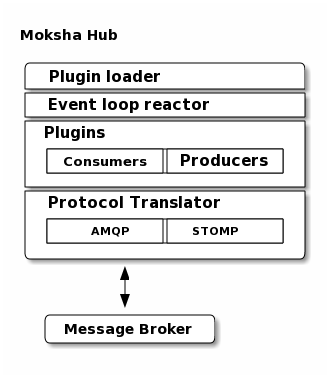
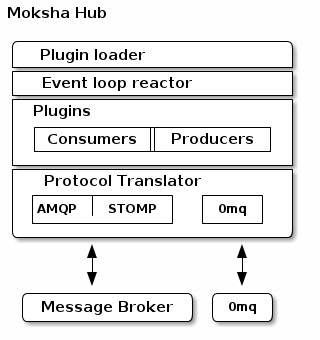
0mq and WebSocket documentation.

diff --git a/docs/main/Features.rst b/docs/main/Features.rst
@@ -18,7 +18,7 @@ Messaging Hub
 
 Moksha provides a message hub that allows for other applications, services, or users to communicate over a low-latency topic-based publish/subscribe message bus.  It's designed in such a way as to facilitate a variety of different message flows, allowing for a combination of different message queueing brokers and protocols.
 
-Out of the box, Moksha utilizes `MorbidQ <http://www.morbidq.com/>`_, a lightweight message queue for bundled deployment, for it's message queueing needs.  With a 1-line change to Moksha's configuration file, you can integrate it with an existing `AMQP <http://amqp.org/>`_ broker, such as `Qpid <http://incubator.apache.org/qpid/>`_ or `RabbitMQ <http://rabbitmq.com>`_.
+Out of the box, Moksha utilizes `MorbidQ <http://www.morbidq.com/>`_, a lightweight message queue for bundled deployment, for it's message queueing needs.  With a 1-line change to Moksha's configuration file, you can integrate it with an existing `AMQP <http://amqp.org/>`_ broker, such as `Qpid <http://incubator.apache.org/qpid/>`_ or `RabbitMQ <http://rabbitmq.com>`_.  With similarly small configuration changes, you can integrate it with a `0mq <http://www.zeormq.org>`_ messaging fabric.
 
 .. seealso::
 
@@ -32,6 +32,10 @@ server that allows for asynchronous browser <-> server communication (Comet).  M
 then makes it simple to create :doc:`LiveWidgets` that can publish and
 subscribe to arbitrary message topics in the :doc:`MokshaHub`.  This
 allows for the creation of very rich live web applications.
+
+Moksha also packs a built-in WebSocket server and Live Widget mixin as an
+alternative to the Orbited (Comet) pattern.  The WebSocket pattern is compatible
+with only the 0mq messaging backend.
 
 Plugin Infrastructure
 ---------------------
@@ -63,16 +67,6 @@ subscribe to message :doc:`Topics`.
 
    :doc:`Widgets`
 
-Resource Connectors
--------------------
-
-Moksha offers a Resource Layer that trivializes interacting with external
-services in an intelligent and efficient manner.
-
-.. seealso::
-
-   :doc:`Connectors`
-
 Highly Scalable Architecture
 ----------------------------
 
@@ -84,7 +78,7 @@ Expert System
 
 :doc:`MokshaHub` gives you Expert System-like functionality by providing
 APIs for interacting with a variety of knowledge bases (SQLAlchemy models,
-Resource Connectors, Caches, Message Queues, etc), and can easily monitor and
+Caches, Message Queues, etc), and can easily monitor and
 process incoming data.  One could then easily build state-machines, inference
 engines, or even forward/backward-chaning rule-driven expert systems.
 

diff --git a/docs/main/MessageBrokers.rst b/docs/main/MessageBrokers.rst
@@ -66,3 +66,27 @@ AMQP Broker in your``/etc/orbited.cfg``
    AMQP support in Moksha has been tested with `Qpid <http://qpid.apache.org>`_.
 
       `RabbitMQ <http://rabbitmq.com>`_ support is under development.  See the :doc:`RabbitMQ` documentation for details on testing it.
+
+`0mq <http://www.zeromq.org>`_
+------------------------------
+
+It (perhaps) goes without saying that `0mq <http://www.zeromq.org>`_ is
+brokerless.  To configure what endpoints it will subscribe to and publish on,
+set the following in Moksha's ``development.ini`` or ``production.ini``:
+
+.. code-block:: none
+
+    zmq_enabled = True
+    zmq_publish_endpoints = tcp://\*:6543
+    zmq_subscribe_endpoints = tcp://127.0.0.1:6543
+
+0mq *requires* that the livesocket backend be set to ``websocket`` with any port
+of your choosing, like this:
+
+.. code-block:: none
+
+    moksha.livesocket.backend = websocket
+    moksha.livesocket.websocket.port = 9991
+
+Note that when using the 0mq+websocket setup there is no need to run either
+Orbited or qpidd.

diff --git a/docs/main/Technology.rst b/docs/main/Technology.rst
@@ -74,7 +74,14 @@ open protocols.
 `Qpid <http://incubator.apache.org/qpid/>`_ is a message broker daemon that
 receives, stores, and routes messages using the AMQP protocol.
 
+`0mq <http://www.zeromq.org/>`_
+-------------------------------
+
+`0mq <http://www.zeromq.org/>`_ is a socket library that acts as a concurrency
+framework.  Think `"spicy sockets on steroids"`.  It is one the pluggable
+messaging backends for the :doc:`MokshaHub` alongside AMQP and STOMP.
+
 `Twisted <http://twistedmatrix.com>`_
 -------------------------------------
 
-Twisted is an event-driven networking engine written in Python.  It is the core engine for the :doc:`MokshaHub`, which reacts to incoming messages, as well as runs our :doc:`Producers`.
+Twisted is an event-driven networking engine written in Python.  It is the core engine for the :doc:`MokshaHub`, which reacts to incoming messages (:doc:`Consumers`), runs our :doc:`Producers`, and drives the :doc:`WebSocket` Server (if it is enabled).

diff --git a/docs/main/Topics.rst b/docs/main/Topics.rst
@@ -7,8 +7,9 @@ A `"Topic"` in Moksha is basically just a message queue.
 By abstracting out the low-level messaging protocols and brokers, Moksha
 applications can interact with `"topics"` without having to worry about the
 underlying technology that is involved.  For example, a `topic` could
-potentially be represented by a STOMP destination, or even an AMQP message
-queue.  These messaging backends can be swapped out and configured without
-having to alter the applications that care about those `topics`.
+potentially be represented by a STOMP destination, an AMQP message
+queue, or a 0mq filter.  These messaging backends can be swapped out
+and configured without having to alter the applications that care
+about those `topics`.
 
 For details on how to interact with topics, see the documentation on :doc:`Consumers`, :doc:`Producers`, and :doc:`MokshaHub`.

diff --git a/docs/main/MessagingScenarios.rst b/docs/main/MessagingScenarios.rst
@@ -12,7 +12,6 @@ Cons:
 
 .. image:: ../_static/moksha-messaging-stomp-amqp.png
 
-
 Pros
     - STOMP/AMQP broker bridging
 Cons
@@ -27,6 +26,17 @@ Pros:
     - Flexibility and power of AMQP queues, exchanges, routing keys, etc.
 Cons:
     - Relatively new and not 100% complete JavaScript bindings
+
+.. image:: ../_static/moksha-messaging-0mq.png
+
+Pros:
+    - Uses native WebSockets, not a giant javascript shim
+    - Blazing fast.  ~100 times faster hub processing
+    - Distributed.  No central broker
+    - Only `moksha-hub` and the WSGI stack.  No orbited, no broker.
+Cons:
+    - Uses native WebSockets, not supported on all browsers
+    - No built in persistance or delivery guarantee
 
 .. seealso::
 

diff --git a/docs/main/HelloWorld.rst b/docs/main/HelloWorld.rst
@@ -208,7 +208,7 @@ One of the features that makes Moksha unique in the web framework world is that
 it encorporates a Message Broker into the mix, allowing you to create highly
 responsive and interactive web applications.
 
-Traditionally, the messaging world is full of acronyms (AMQP, STOMP) and
+Traditionally, the messaging world is full of acronyms (AMQP, STOMP, 0mq) and
 complexity (queues, exchanges, binding keys, flow control).  Moksha, on the
 other hand, aims to provide a high level abstraction on top of these concepts,
 while offering a trivial API for people to utilize them with ease.

diff --git a/docs/main/DataInterpretation.rst b/docs/main/DataInterpretation.rst
@@ -15,9 +15,9 @@ Live streams
 ------------
 
 Any data source, even if moksha has to occasionally poll it, can be displayed
-as a 'live' widget.  "Data streams", or Producers,  can also easily expose
-themselves through an AMQP or STOMP message queue, allowing other applications
-and services to interact with new data, as it is discovered.
+as a 'live' widget.  :doc:`Producers` can also easily expose
+themselves through an AMQP/STOMP message queue or 0mq message filter, allowing
+other applications and services to interact with new data, as it is discovered.
 
 Consumers
 ---------

diff --git a/docs/main/DataAggregation.rst b/docs/main/DataAggregation.rst
@@ -8,7 +8,8 @@ Messaging layer
 ---------------
 
 Moksha can communicate with various message brokers, using the `AMQP
-<http://amqp.org>`_ and/or `STOMP <http://stomp.codehaus.org/Protocol>`_
+<http://amqp.org>`_, `STOMP <http://stomp.codehaus.org/Protocol>`_,
+and/or `0mq <http://www.zeromq.org/>`_
 protocols.  It also provides a simple API for producing and consuming messages,
 as well as allowing widgets to subscribe to live message streams within the
 users web browser.

diff --git a/docs/main/LiveWidget.rst b/docs/main/LiveWidget.rst
@@ -74,7 +74,13 @@ uses a little bit of jQuery to add and remove feed entries from a list.
 Live Widget Interaction
 -----------------------
 
+Live Widget speaking AMQP or STOMP
+
 .. image:: ../_static/live_widget_interaction.png
+
+Live Widget speaking WebSocket to 0mq
+
+.. image:: ../_static/live_widget_interaction_websocket.png
 
 Dependency on GlobalResourceInjectionWidget
 -------------------------------------------

diff --git a/docs/main/Consumers.rst b/docs/main/Consumers.rst
@@ -35,6 +35,13 @@ Creating
 
    Wildcard topics do not work using STOMP.
 
+.. note::
+
+   If you're using 0mq and ``zmq_strict`` is set to False in your config file,
+   then your topic will behave like it usually does with 0mq.  i.e.: `foo` will
+   match `foobar`, `foobaz, and `foo`.  If ``zmq_strict`` is set to True then
+   `foo` will match only `foo` and not `foobaz` or `foobar`.
+
 Installing
 ----------
 

diff --git a/docs/main/Scalability.rst b/docs/main/Scalability.rst
@@ -33,6 +33,8 @@ production environment:
 - WSGI/TG2 frontends
 - Orbited proxies
 - AMQP message brokers
-- Moksha hub (Feed fetchers / Data pollers / AMQP hooks & triggers)
+- 0mq message fabric
+- Moksha hub (Feed fetchers / Data pollers / AMQP hooks & triggers / WebSocket
+  Server)
 - memcached daemons
 - Databases

diff --git a/docs/main/MokshaLabs.rst b/docs/main/MokshaLabs.rst
@@ -10,7 +10,6 @@ The Moksha Labs is an experimental R&D playground for reusable apps & widgets.
    Feeds
    CSRFProtection
    MokshaContainerWidgets
-   Connectors
    Blueprint
 
    #../apps/MokshaMenus
